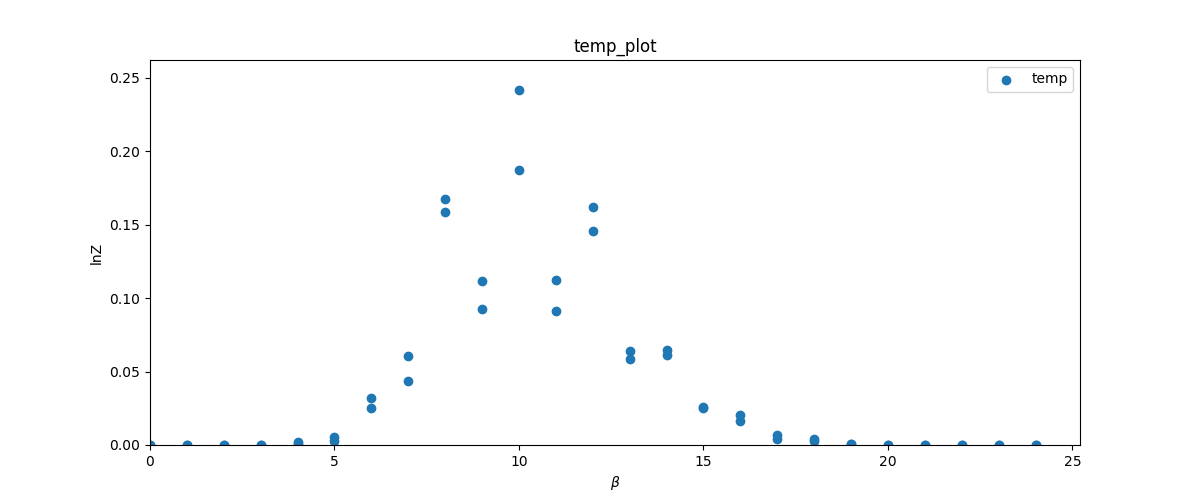
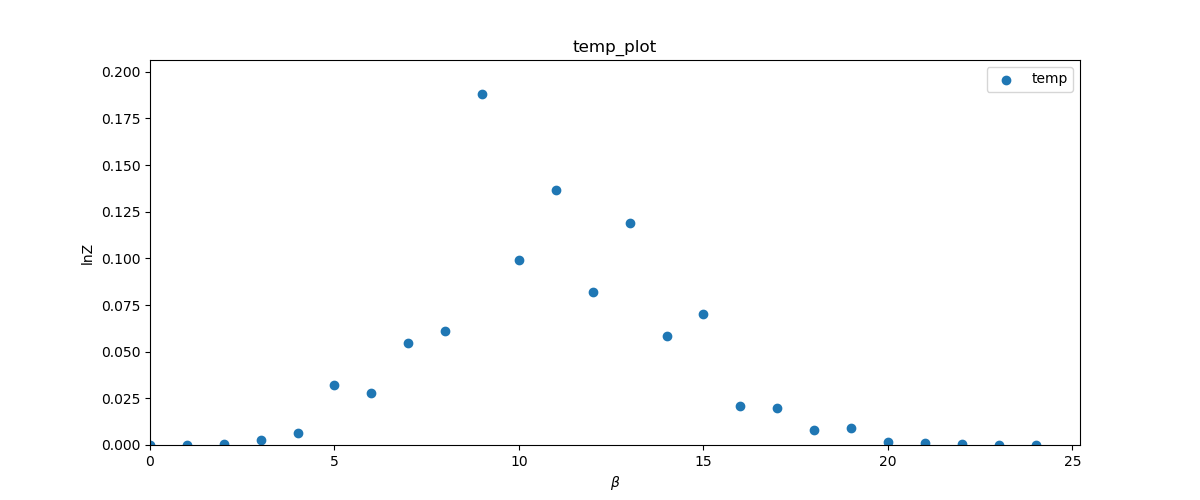
bugs clear

diff --git a/data/(3,3,3,3)_model_A/plot01.py b/data/(3,3,3,3)_model_A/plot01.py
@@ -17,6 +17,10 @@ x = data[:,0]
 y = data[:,1]
 ax1.scatter(x,y,s=20,marker='+',label="Arinana's result")
 
+data = np.loadtxt('./wrong.dat')
+x = data[:,0]/24
+y = data[:,1]
+ax1.scatter(x,y,s=40,marker='s',label="wrong data")
 # data = np.loadtxt('./new_mc.dat')
 # x = data[:,0]/24
 # y = data[:,1]

diff --git a/data/temp.py b/data/temp.py
@@ -5,8 +5,10 @@ fig,ax1 = plt.subplots(nrows=1,ncols=1,figsize=(12,5))
 
 plt.rcParams['figure.dpi'] = 600 
 data = np.loadtxt('./temp.dat')
-x = data[:,0]
-y = data[:,1]
+x = [i for i in range(0,25)]
+y = data
+# x = data[:,0]
+# y = data[:,1]
 ax1.scatter(x,y,label='temp')
 
 ax1.legend(loc='best')
